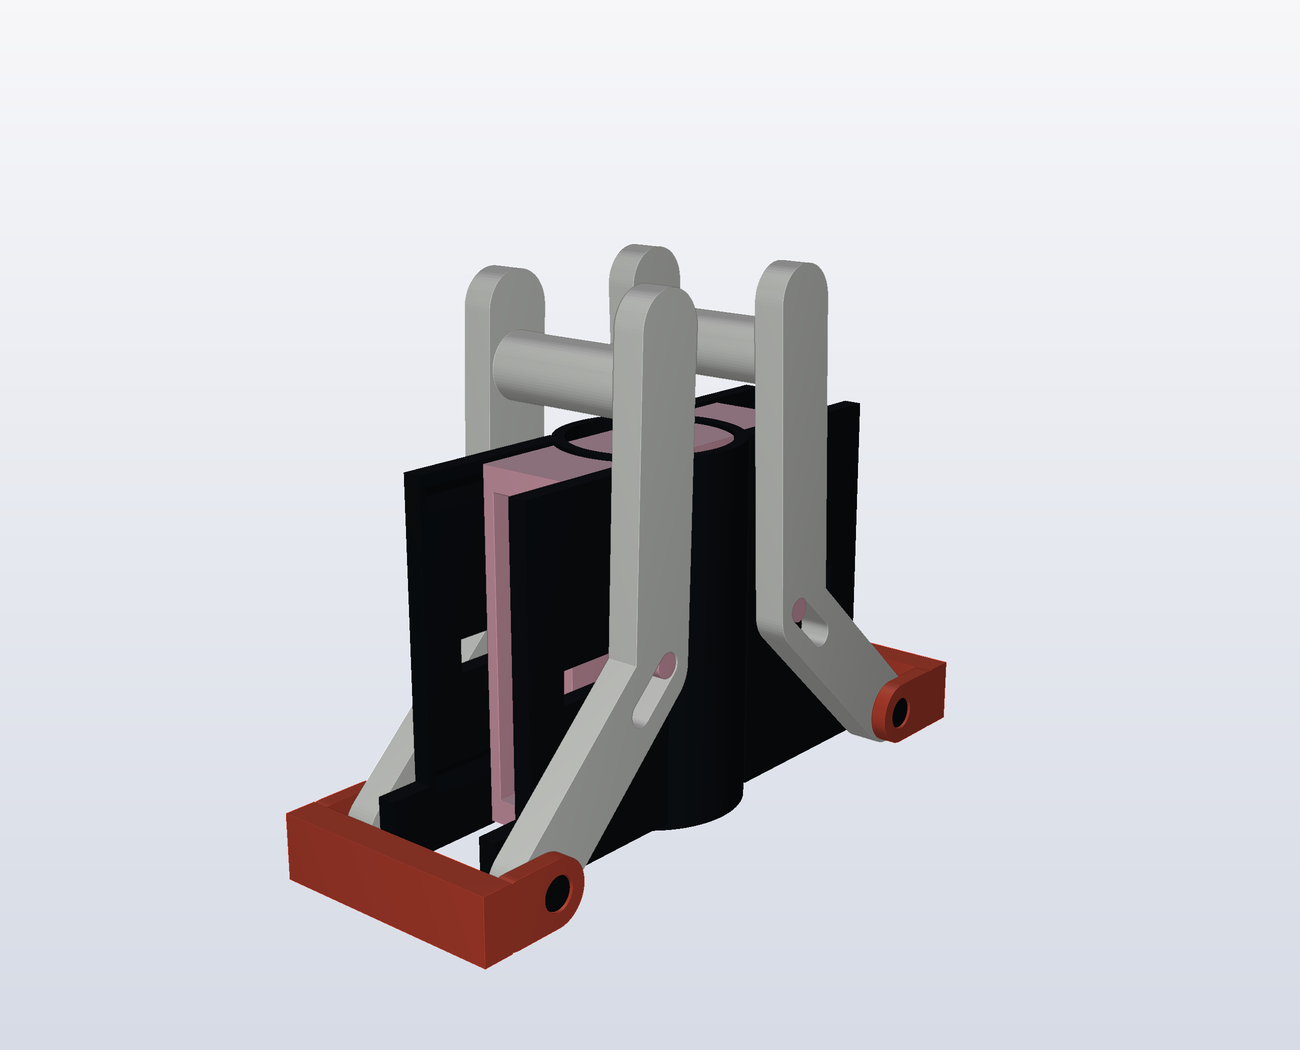
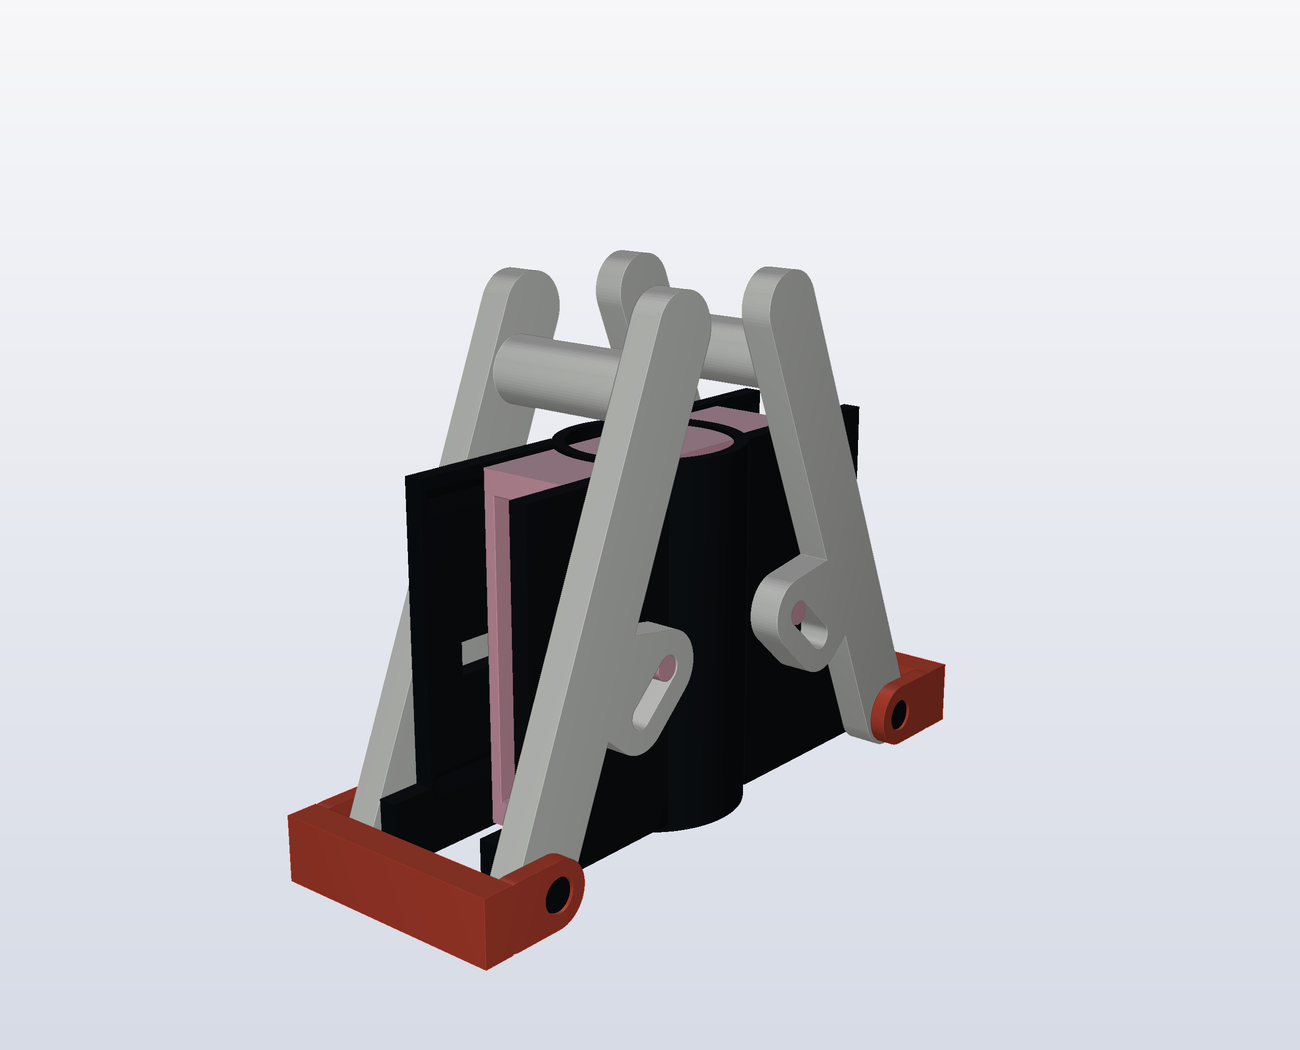
twist-grip: straight lever with a side stub, in place of the cranked arm
The lever is now one straight bar from the outboard pivot to the grab
bar, with a stub off its side carrying the drive slot. Pivot, drive and
grab bar are exactly where they were, so none of the mechanism moves:
18.3 degrees of swing, 117 mm open against 50 shut, a 67 mm stroke.

It is a better part for two reasons beyond the outline. The spine now
runs straight from the grab bar to the pivot, so the hand's load reaches
the pivot in bending along one axis instead of through a knee that wants
to straighten under it. And the bar is a constant section end to end,
which lays out and prints more predictably than a dogleg.

The slot cannot lie along the bar, and it is worth saying why. In the
lever's own frame the jaw post tracks a line radial from the pivot --
that is what the runners holding the jaw at one height force -- while the
bar runs pivot to grab bar, a different direction. So the stub stands off
the bar and the slot inside it sits about 25 degrees across, rather than
parallel to the bar as sketched. Drawn parallel it would bind.

The stub is the convex hull of a 9 mm buffer round the slot and a disc on
the bar's axis, which keeps 5.83 mm of wall all round the slot and tapers
cleanly back into the spine.

43 checks, all passing, with two new ones: the wall round the slot, and
the spine being genuinely straight from grab bar to pivot.

Claude-Session: https://claude.ai/code/session_01BfCgrzXtRn8srHGcxKgT97

diff --git a/twist-grip/concept_lever.py b/twist-grip/concept_lever.py
@@ -46,7 +46,7 @@ from pathlib import Path
 
 import numpy as np
 import trimesh
-from shapely.geometry import LineString, Polygon
+from shapely.geometry import LineString, Point, Polygon
 
 sys.path.insert(0, str(Path(__file__).resolve().parent.parent / "3d-tools"))
 
@@ -108,9 +108,12 @@ LEVER_TIP_Z = BODY_H + LEVER_OVERHANG   # 130
 POST_D, DRIVE_D = 8.0, 6.0
 LEVER_HALF_W = 9.0
 GRIP_R = 8.0                           # the round bar tying the two sides
-GRIP_Z = 108.0                         # the grab bar, clear behind the body
-KNEE = (27.0, 45.0)                    # where the lever cranks inboard
-LEVER_END = (24.5, 121.0)
+# A straight bar from the pivot to the grab bar, with a stub off its side
+# for the drive slot -- a simpler outline to print than a cranked arm, and
+# the same mechanism: pivot, drive and grab bar are where they were, and
+# only the metal between them changes shape.
+GRIP = (25.0, 108.0)                   # the grab bar, clear behind the body
+LEVER_END_Z = 121.0                    # buffered, this puts the tip at 130
 BRACE_WEB_X = (80.0, 88.0)             # the web crosses outboard of the lever
 
 RAIL_X = (19.0, 39.0)
@@ -282,23 +285,42 @@ def jaw(psi, index):
 
 
 def grip_xy():
-    """Where the grab bar sits, on the lever's long branch."""
-    (kx, kz), (ex, ez) = KNEE, LEVER_END
-    t = (GRIP_Z - kz) / (ez - kz)
-    return (kx + t * (ex - kx), GRIP_Z)
+    return GRIP
+
+
+def _on_axis(z):
+    """A point at height z on the straight bar through pivot and grab bar."""
+    (px, pz), (gx, gz) = PIVOT, GRIP
+    return (px + (gx - px) * (z - pz) / (gz - pz), z)
+
+
+def _stub():
+    """The side tab carrying the drive slot.
+
+    The slot cannot lie along the bar. In the lever's own frame the jaw post
+    tracks a line radial from the pivot -- that is what the runners holding
+    the jaw at one height force -- and the bar runs from the pivot to the
+    grab bar, which is a different direction. So the tab stands off the bar
+    and the slot inside it sits about 25 degrees across.
+    """
+    slot = LineString([on_arm(ARM_OPEN), on_arm(ARM_SHUT)])
+    mid = slot.interpolate(0.5, normalized=True)
+    rel = (mid.x - PIVOT[0], mid.y - PIVOT[1])
+    (px, pz), (gx, gz) = PIVOT, GRIP
+    ux, uz = (gx - px), (gz - pz)
+    n = math.hypot(ux, uz)
+    ux, uz = ux / n, uz / n
+    t = rel[0] * ux + rel[1] * uz                     # foot of the perpendicular
+    foot = (px + t * ux, pz + t * uz)
+    return slot.buffer(9.0, resolution=16).union(
+        Point(foot).buffer(LEVER_HALF_W, resolution=16)).convex_hull
 
 
 def lever(psi, index):
-    """One cranked piece. The pivot hole is outboard, past the body; the
-    arm leans inboard to the drive slot, and the long branch carries on
-    back to the grab bar that ties the two sides together.
-
-    The crank is what the outboard pivot costs. A straight bar from a
-    pivot that far out would put the hand out there too, and the span is
-    twice wherever the hand lands.
-    """
-    spine = LineString([PIVOT, KNEE, LEVER_END]).buffer(
-        LEVER_HALF_W, resolution=16)
+    """One piece: a straight bar from the outboard pivot to the grab bar,
+    with a stub off its side carrying the drive slot."""
+    spine = LineString([PIVOT, _on_axis(LEVER_END_Z)]).buffer(
+        LEVER_HALF_W, resolution=16).union(_stub())
     pieces = [plate(spine, LEVER_T, LEVER_Y0),
               plate(spine, LEVER_T, -LEVER_Y1),
               pin(2 * GRIP_R, -LEVER_Y1, LEVER_Y1, grip_xy(), 1)]
@@ -415,8 +437,8 @@ def checks():
     ok("the grab bar clears the body right through the stroke",
        worst < 1e-6, f"worst {worst:.3f} mm^3 over 9 positions")
 
-    gx, _ = grip_xy()
-    grip_arm = math.hypot(gx - PIVOT[0], GRIP_Z - PIVOT[1])
+    gx, gz = grip_xy()
+    grip_arm = math.hypot(gx - PIVOT[0], gz - PIVOT[1])
     spread = POST_TIP - LEVER_Y0
     strain = 3 * LEVER_T * spread / (2 * grip_arm ** 2)
     ok("the lever can be sprung onto the posts without yielding",
@@ -431,6 +453,12 @@ def checks():
     ok("the brace's web reaches across outboard of the lever",
        BRACE_WEB_X[0] > lv.bounds[1][0],
        f"web from x {BRACE_WEB_X[0]:.0f}, lever reaches {lv.bounds[1][0]:.0f}")
+    ok("the stub keeps a printable wall round the drive slot",
+       9.0 - (DRIVE_D + 0.35) / 2.0 >= P.WALL_MIN,
+       f"{9.0 - (DRIVE_D + 0.35) / 2.0:.2f} mm all round")
+    ok("the load path from grab bar to pivot is a straight bar",
+       abs((GRIP[0] - PIVOT[0]) * (_on_axis(LEVER_END_Z)[1] - PIVOT[1])
+           - (GRIP[1] - PIVOT[1]) * (_on_axis(LEVER_END_Z)[0] - PIVOT[0])) < 1e-9)
     ok("the drive post still slides along the arm, not across it",
        abs(ARM_SHUT - ARM_OPEN - SLOT_RUN) < 1e-9,
        f"arm {ARM_SHUT:.1f} -> {ARM_OPEN:.1f} mm")
